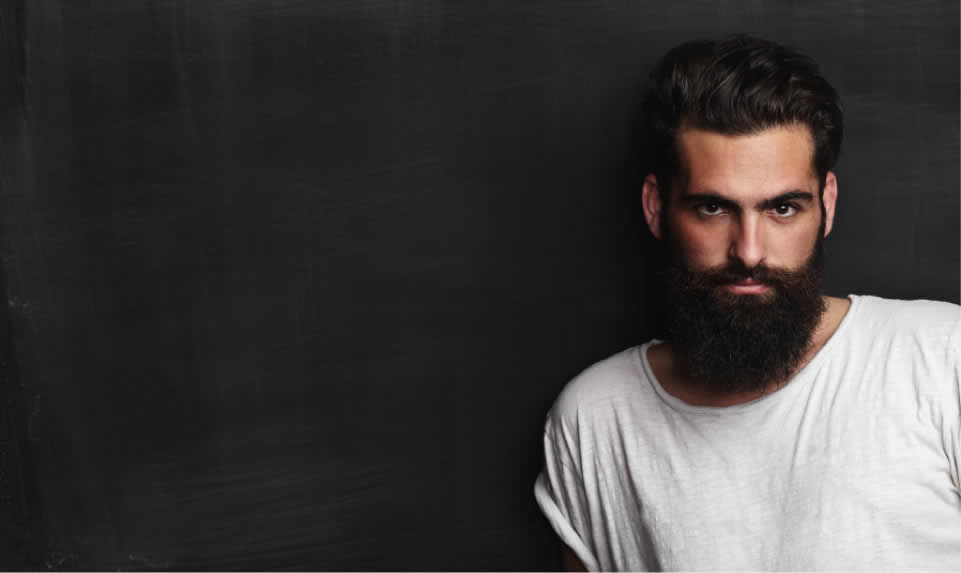
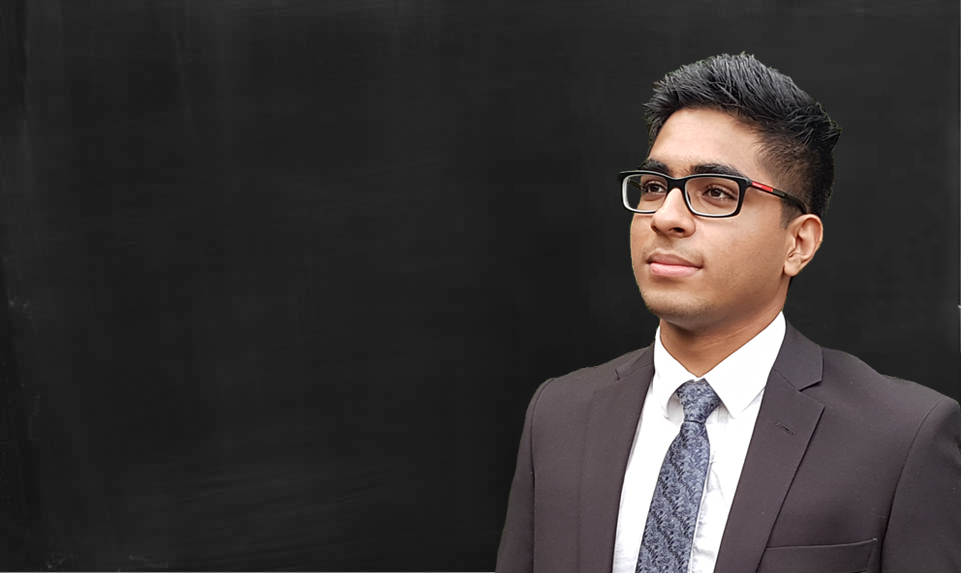
content update

Changed region(s): [[0.4995, 0.0593, 1.0, 1.0]]

diff --git a/index.html b/index.html
@@ -11,6 +11,9 @@
         <meta name="viewport" content="width=device-width, initial-scale=1">
         <link rel="apple-touch-icon" href="apple-touch-icon.png">
 
+        <!-- site icon -->
+		    <link rel="shortcut icon" type="image/x-icon" href="assets/images/site-icon.png">
+
         <link rel="stylesheet" href="assets/css/bootstrap.min.css">
         <!--        <link rel="stylesheet" href="assets/css/bootstrap-theme.min.css">-->
 
@@ -68,7 +71,7 @@
                             <div class="col-md-6 col-md-offset-3 col-sm-12 col-xs-12">
                                 <div class="home-content">
                                     <h1>Deven Pattni</h1>
-                                    <p>#Software Dev &nbsp; #User Experience &nbsp; #Creative Direction</p>
+                                    <p>Software Dev &nbsp; User Experience &nbsp; Creative Direction</p>
                                 </div>
                             </div>
                         </div>
@@ -181,13 +184,13 @@
                                     <div class="content-details content-border">
                                         <h5>Fidelity Investments, Technical Architect</h5>
                                         <h6>Sept 2017 - Dec 2017</h6>
-                                        <p>orem ipsum dolor sit amet, consectetuer adipiscing elit, sed diam nonummy nibh euismod tincidunt ut laoreet dolore magna aliquam erat volutpat.</p>
+                                        <p></p>
                                     </div>
 
                                     <div class="content-details">
                                         <h5>ITK Home, Web Developer</h5>
                                         <h6>May 2017 - Aug 2017</h6>
-                                        <p>orem ipsum dolor sit amet, consectetuer adipiscing elit, sed diam nonummy nibh euismod tincidunt ut laoreet dolore magna aliquam erat volutpat.</p>
+                                        <p></p>
                                     </div>
 
                                 </div>
